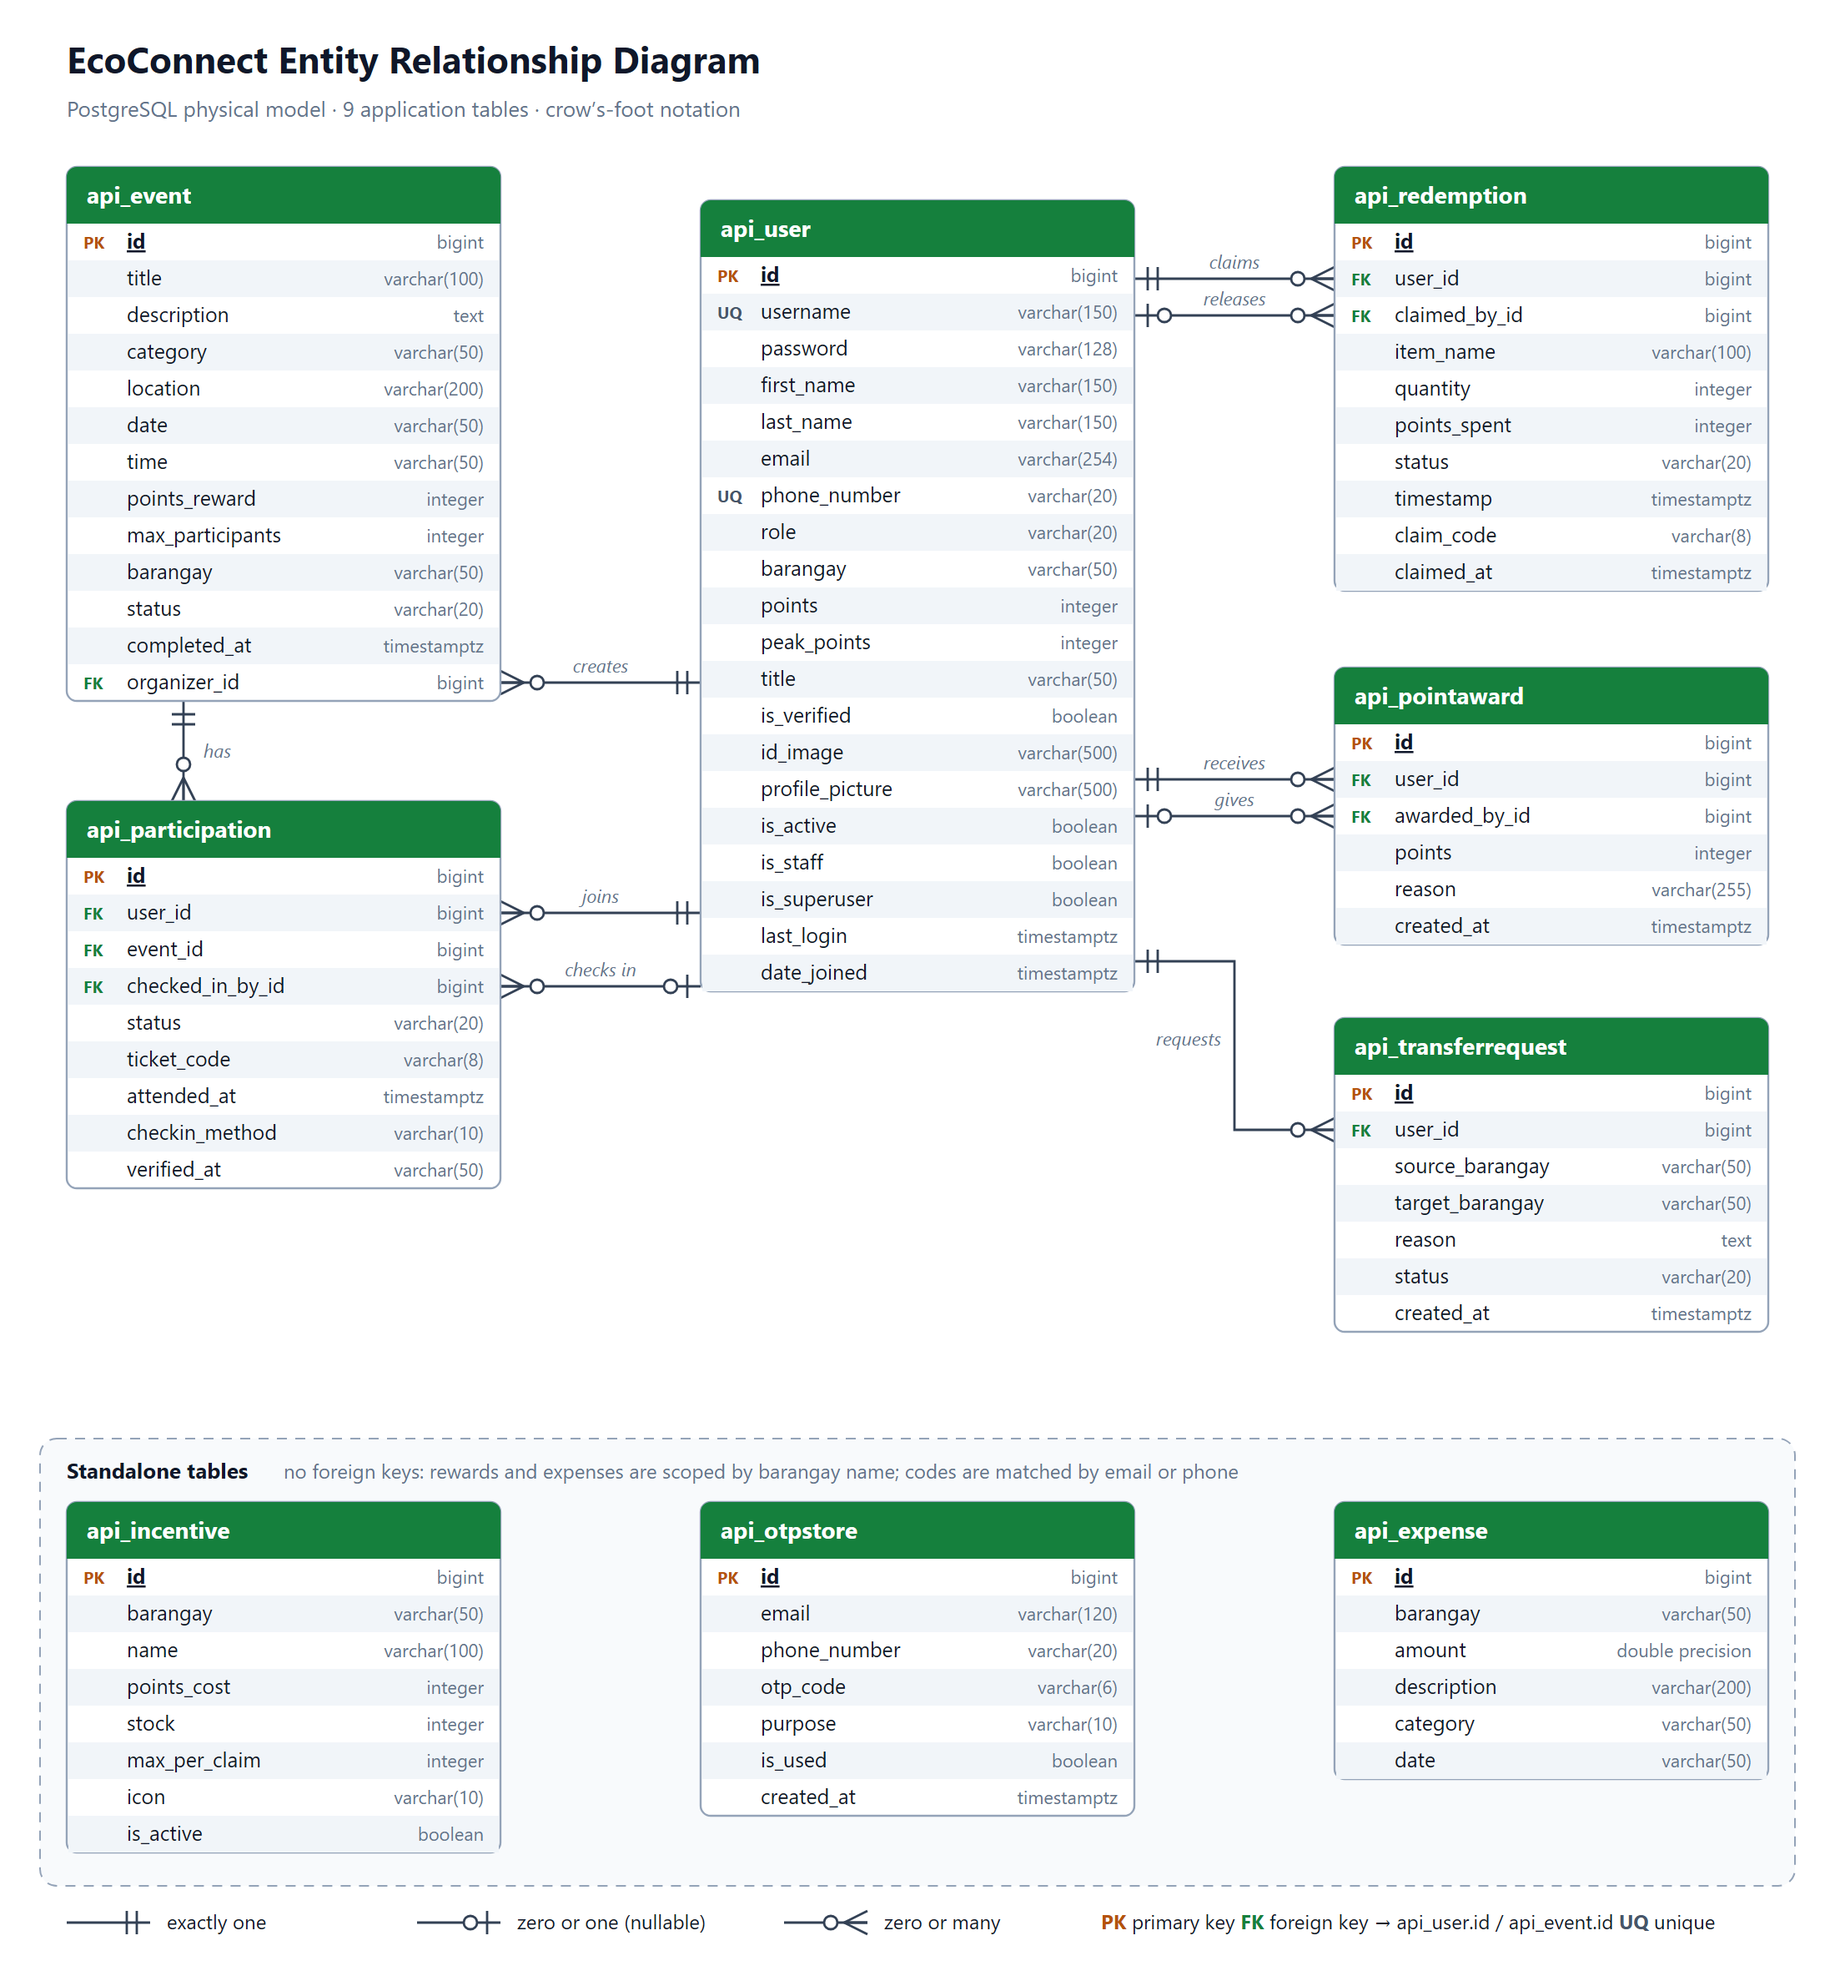
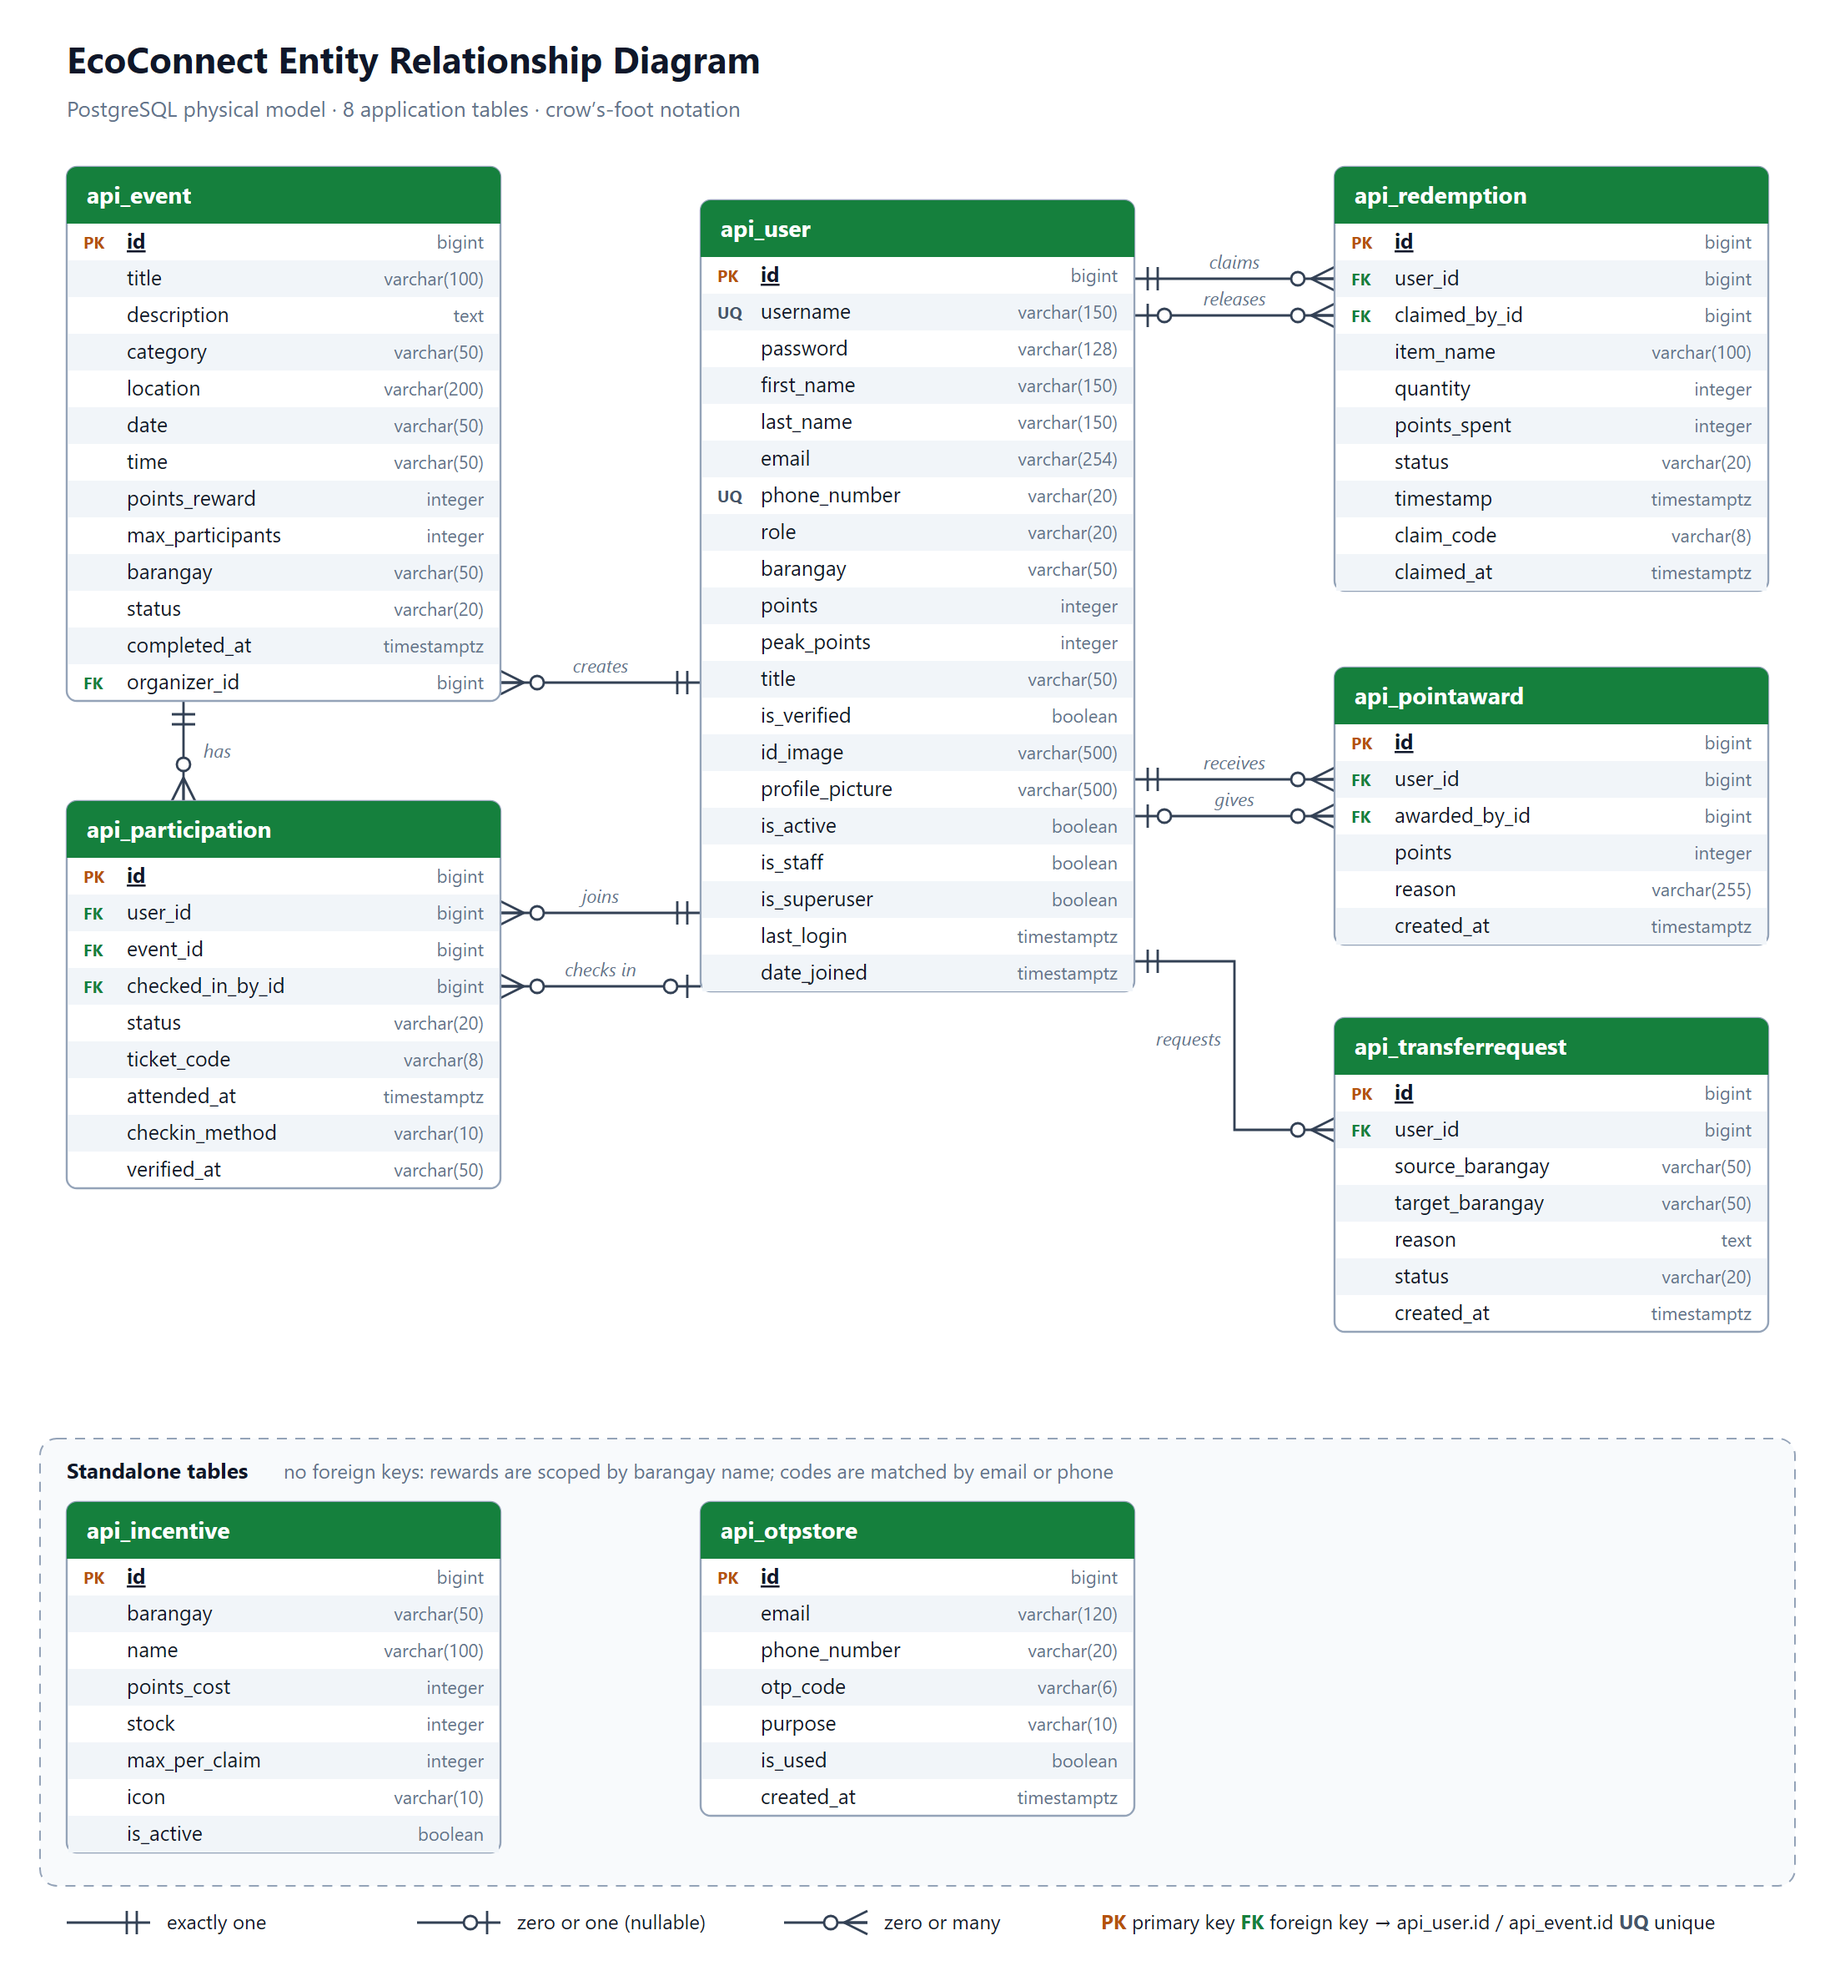
docs: remove expense table from the ERD

Changed region(s): [[0.7109, 0.7462, 0.9891, 0.9017], [0.3091, 0.7151, 0.6182, 0.7462]]

diff --git a/docs/ERD.md b/docs/ERD.md
@@ -2,7 +2,7 @@
 
 ![EcoConnect ERD](ERD.png)
 
-The image above ([ERD.png](ERD.png), vector version [ERD.svg](ERD.svg)) shows the 9 application tables in PostgreSQL with crow's-foot notation. Django's built-in tables (auth groups and permissions, sessions, admin log, content types, migrations) are left out because they belong to the framework, not to EcoConnect's design.
+The image above ([ERD.png](ERD.png), vector version [ERD.svg](ERD.svg)) shows the 8 application tables in PostgreSQL with crow's-foot notation. Django's built-in tables (auth groups and permissions, sessions, admin log, content types, migrations) are left out because they belong to the framework, not to EcoConnect's design.
 
 ## Relationships
 
@@ -20,10 +20,9 @@ The image above ([ERD.png](ERD.png), vector version [ERD.svg](ERD.svg)) shows th
 
 ## Design notes
 
-* **Barangay** is stored as a name (`varchar(50)`) on users, events, rewards and expenses. The list of Puerto Princesa barangays is fixed in the app, so it has no table of its own.
+* **Barangay** is stored as a name (`varchar(50)`) on users, events and rewards. The list of Puerto Princesa barangays is fixed in the app, so it has no table of its own.
 * **Redemptions store the item name**, not a link to `api_incentive`, so a past claim stays readable even if the reward is later edited or removed.
 * **`api_otpstore`** is matched by email or phone because a sign-up code is issued before the user record exists.
-* **`api_expense`** exists in the database but has no screen yet.
 
 ## Mermaid source
 
@@ -134,13 +133,5 @@ erDiagram
         varchar purpose
         boolean is_used
         timestamptz created_at
-    }
-    api_expense {
-        bigint id PK
-        varchar barangay
-        float amount
-        varchar description
-        varchar category
-        varchar date
     }
 ```
